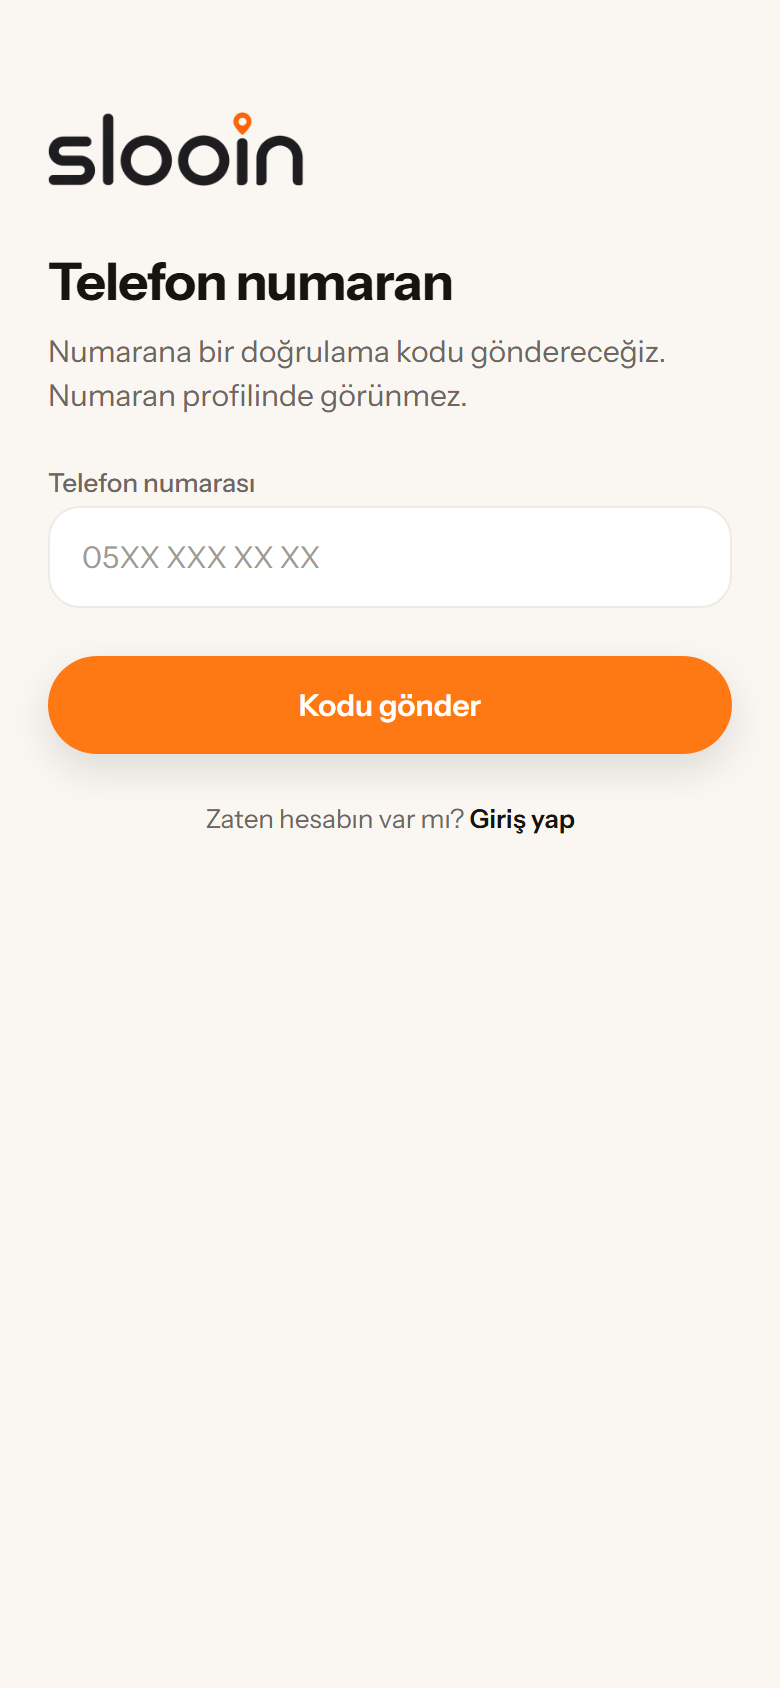
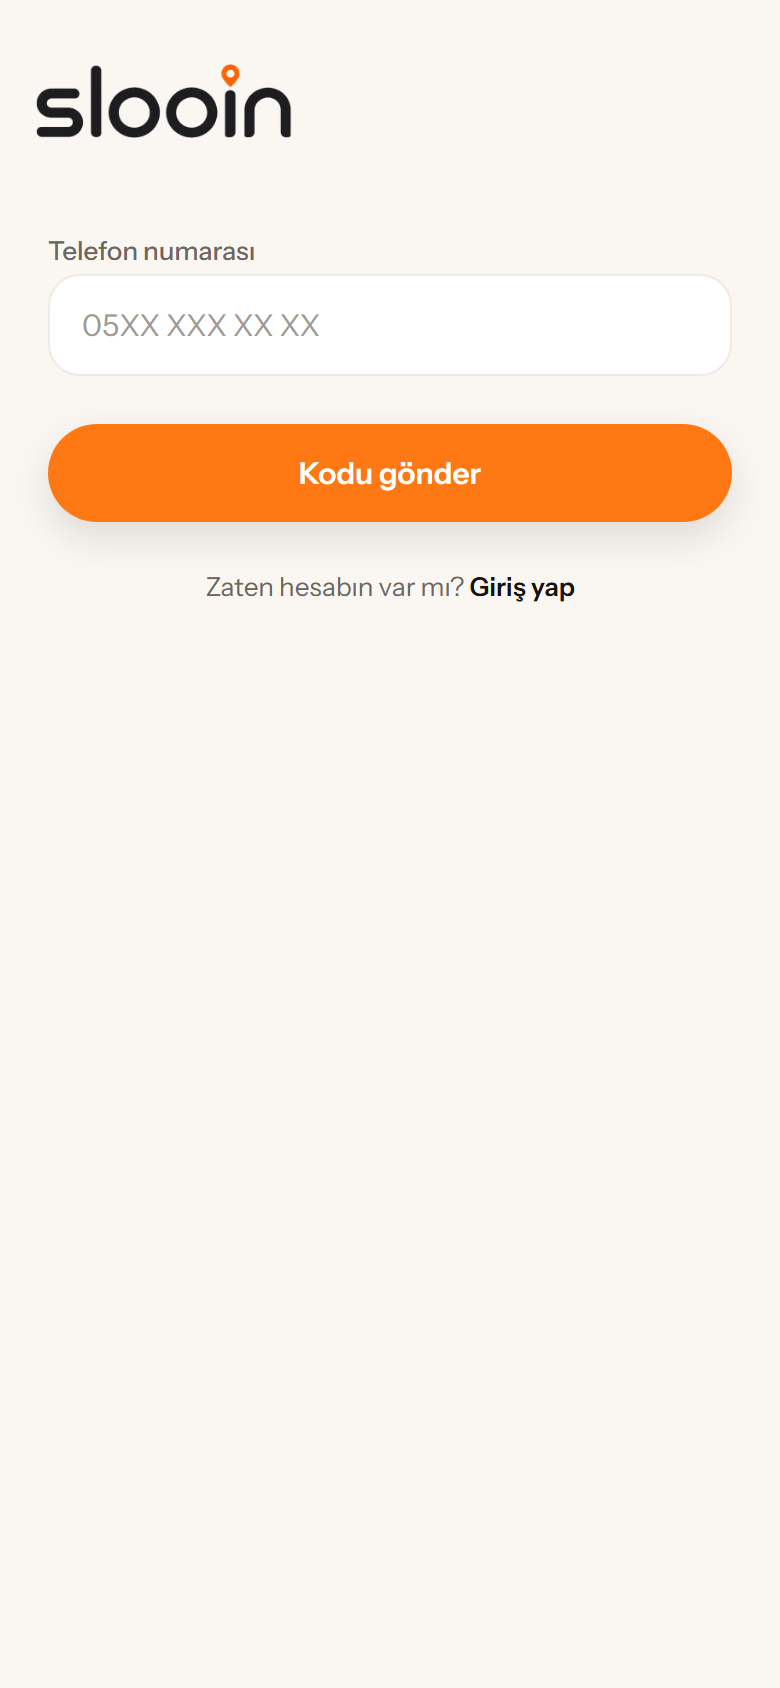
feat(tasarim): kayit ekraninda baslik ve not kaldirildi, marka sola-yukari alindi
Kullanicinin karari (2026-08-26): "Slooin yazisini biraz daha sola ve
yukariya tasi, telefon numaran ve altindaki notu sil."

- "Telefon numaran" basligi ve altindaki aciklama satiri kaldirildi.
  Ekranda tek bir alan var ve alanin kendi etiketi ("Telefon
  numarasi") zaten ne istendigini soyluyor; baslik onu tekrar
  ediyordu. tr.ts'teki iki anahtar da dusuruldu.
- Marka yukari: sayfanin ust payi 56 -> 32.
- Marka sola: marginLeft -6. Kelime markasi gorselinin solunda kendi
  bosluğu var, bu yuzden negatif pay ile optik olarak sayfa payina
  oturuyor.

Testler: kayit ekrani testleri yesil, tsc temiz.

Changed region(s): [[0.0308, 0.0308, 0.9538, 0.4929]]

diff --git a/mobil/src/app/(auth)/kayit.tsx b/mobil/src/app/(auth)/kayit.tsx
@@ -55,9 +55,10 @@ export default function KayitEkrani() {
     <View style={stiller.sayfa}>
       <MarkaYazisi genislik={128} style={stiller.marka} />
 
-      <Text style={stiller.baslik}>{t('kayit.baslik')}</Text>
-      <Text style={stiller.altYazi}>{t('kayit.altYazi')}</Text>
-
+      {/* Baslik ve altindaki not KALDIRILDI (kullanicinin karari
+          2026-08-26). Ekranda tek bir alan var ve alanin kendi
+          etiketi zaten ne istendigini soyluyor; baslik onu tekrar
+          ediyordu. */}
       <Text style={stiller.etiket}>{t('kayit.telefonEtiket')}</Text>
       <TextInput
         style={[stiller.girdi, odakli && stiller.girdiOdakli]}
@@ -105,24 +106,13 @@ const stiller = StyleSheet.create({
     flex: 1,
     backgroundColor: renk.zemin,
     paddingHorizontal: bosluk.xl,
-    paddingTop: bosluk.xxl + bosluk.xl,
+    // Marka yukari alindi (kullanicinin istegi): 56 -> 32.
+    paddingTop: bosluk.xxl,
   },
-  marka: { marginBottom: bosluk.xxl },
-
-  baslik: {
-    fontFamily: yazi.ekranBasligi,
-    fontSize: olcek.baslik,
-    color: renk.metin,
-    letterSpacing: -0.4,
-    marginBottom: bosluk.s,
-  },
-  altYazi: {
-    fontFamily: yazi.govde,
-    fontSize: olcek.govde,
-    lineHeight: 22,
-    color: renk.metinIkincil,
-    marginBottom: bosluk.xl,
-  },
+  // Sayfa payinin biraz DISINA tasiyor: kullanici markayi "biraz daha
+  // sola" istedi. Marka yazisinin solunda kendi bosluğu var, bu yuzden
+  // -6 ile optik olarak sayfa payina oturuyor.
+  marka: { marginLeft: -6, marginBottom: bosluk.xxl + bosluk.l },
 
   etiket: {
     fontFamily: yazi.govdeOrta,

diff --git a/mobil/lib/ceviriler/tr.ts b/mobil/lib/ceviriler/tr.ts
@@ -48,8 +48,6 @@ export default {
   },
 
   kayit: {
-    baslik: 'Telefon numaran',
-    altYazi: 'Numarana bir doğrulama kodu göndereceğiz. Numaran profilinde görünmez.',
     telefonEtiket: 'Telefon numarası',
     telefonYerTutucu: '05XX XXX XX XX',
     gonder: 'Kodu gönder',
